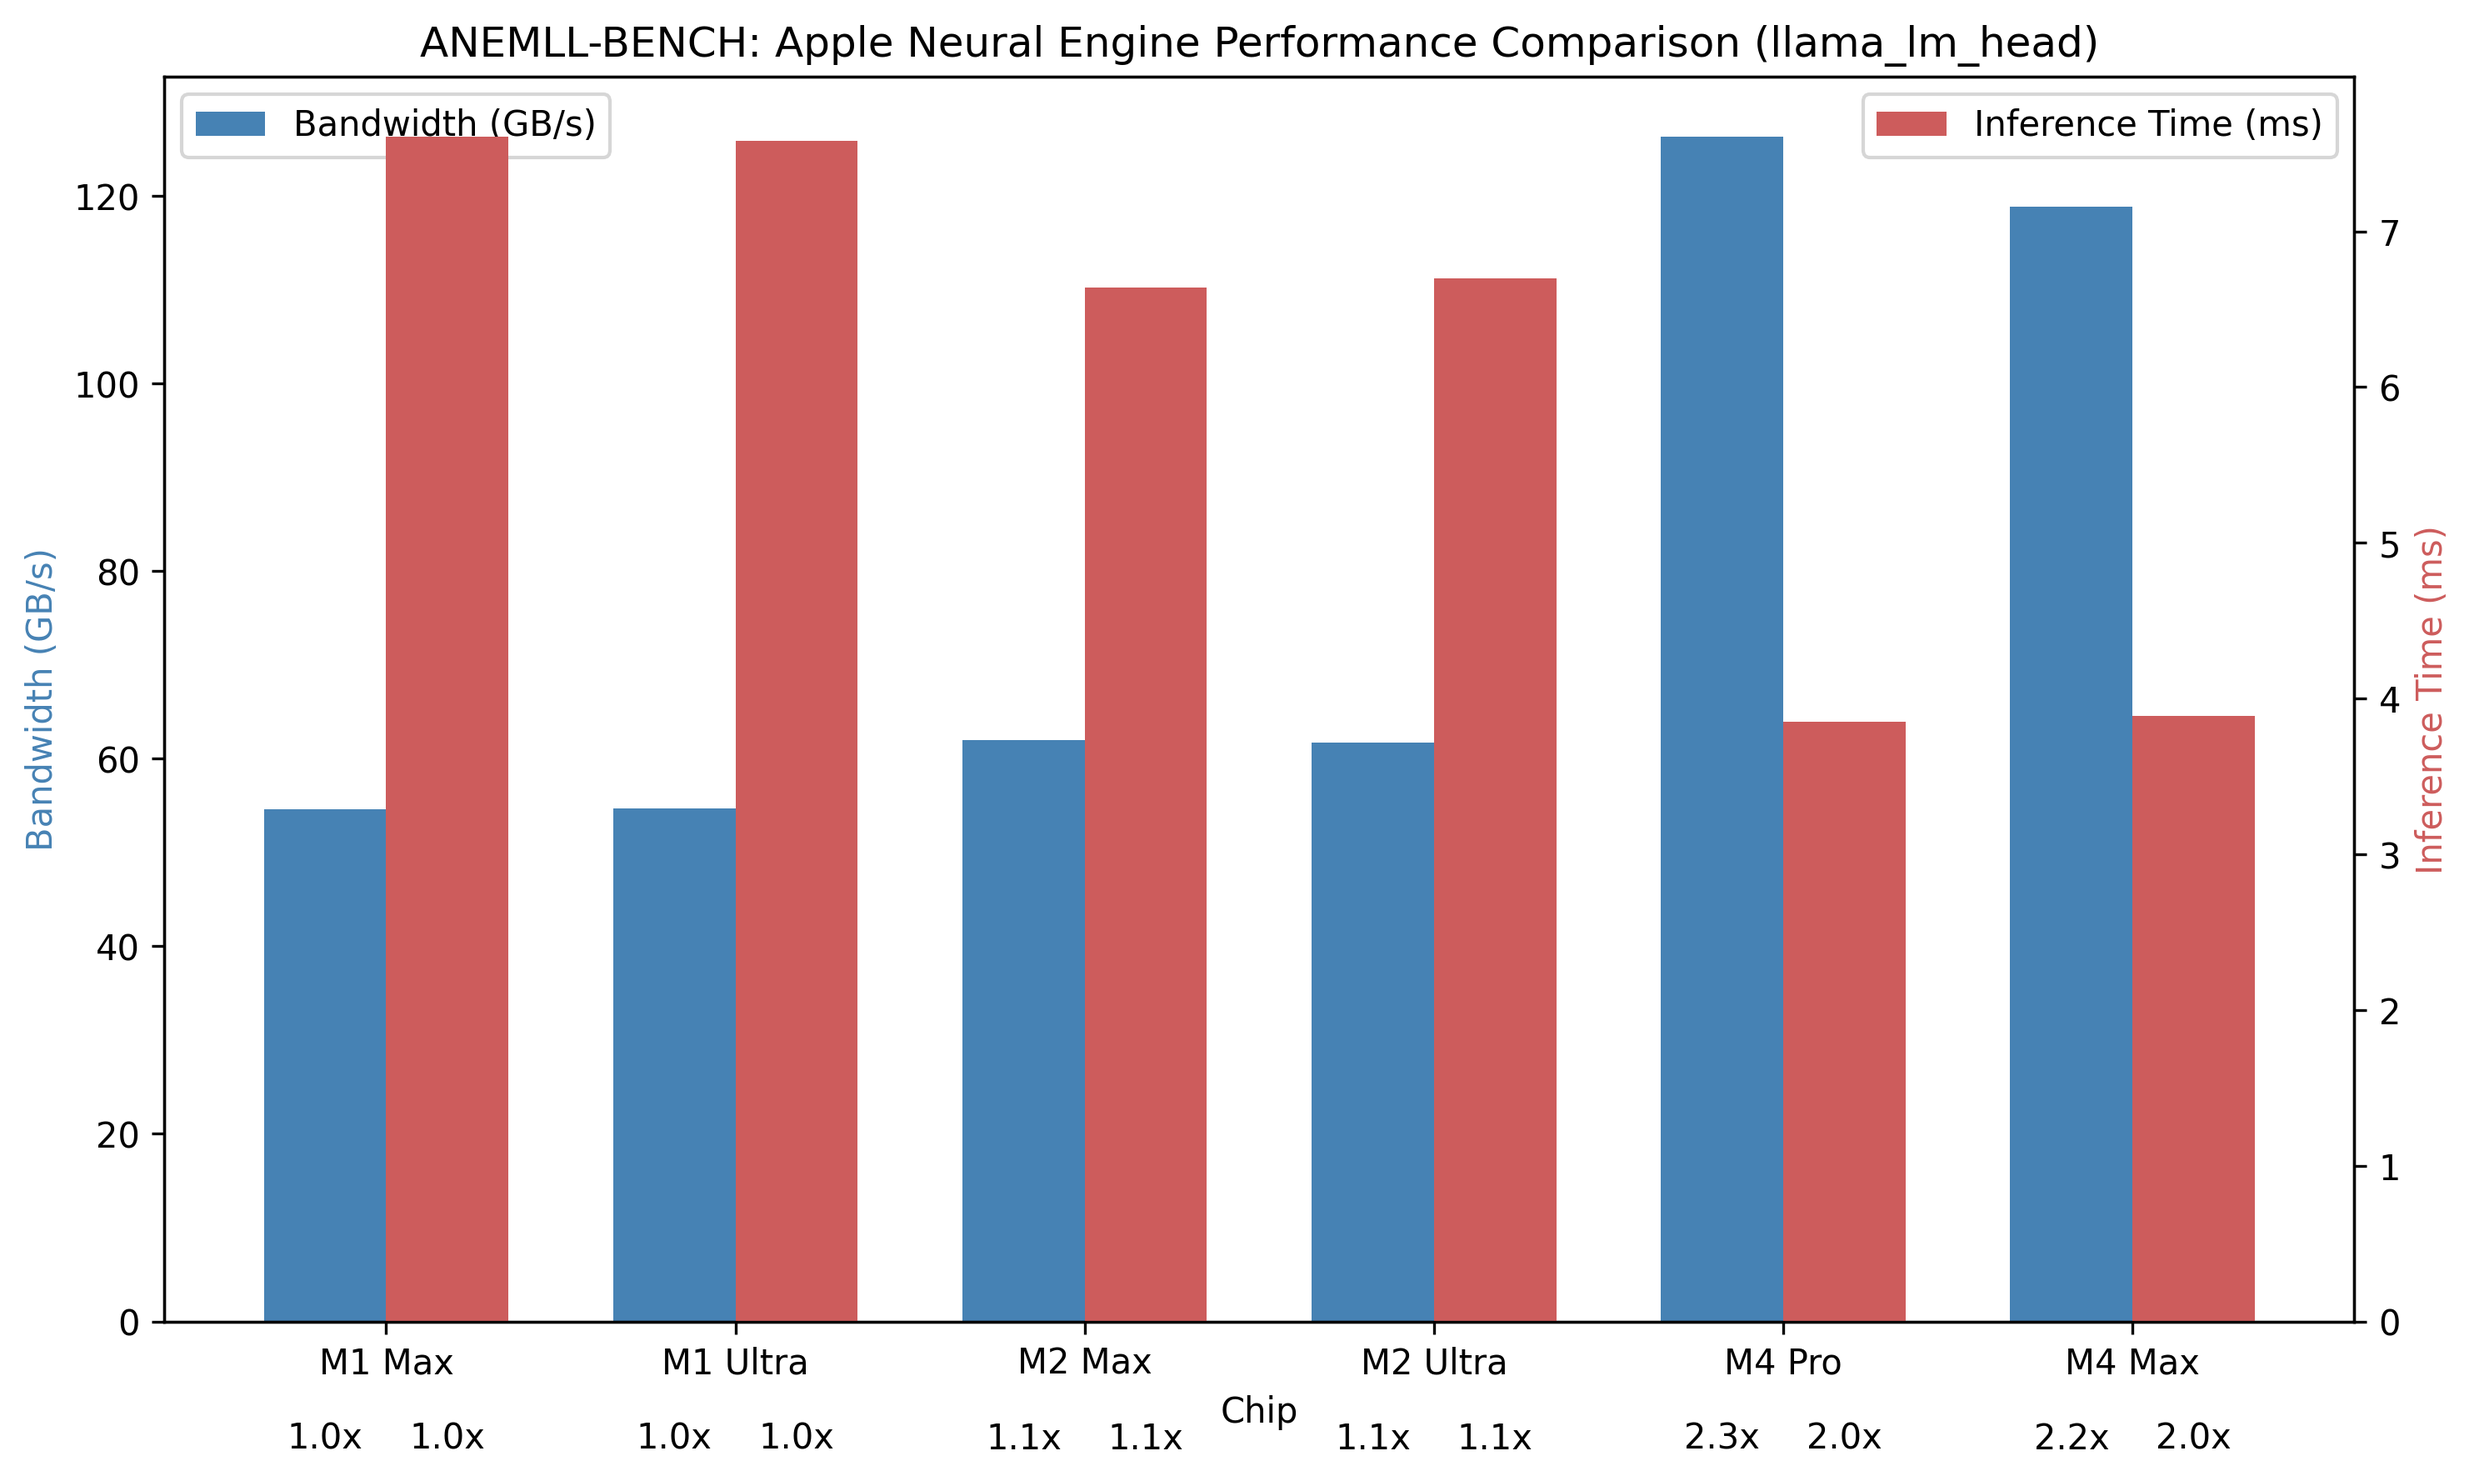
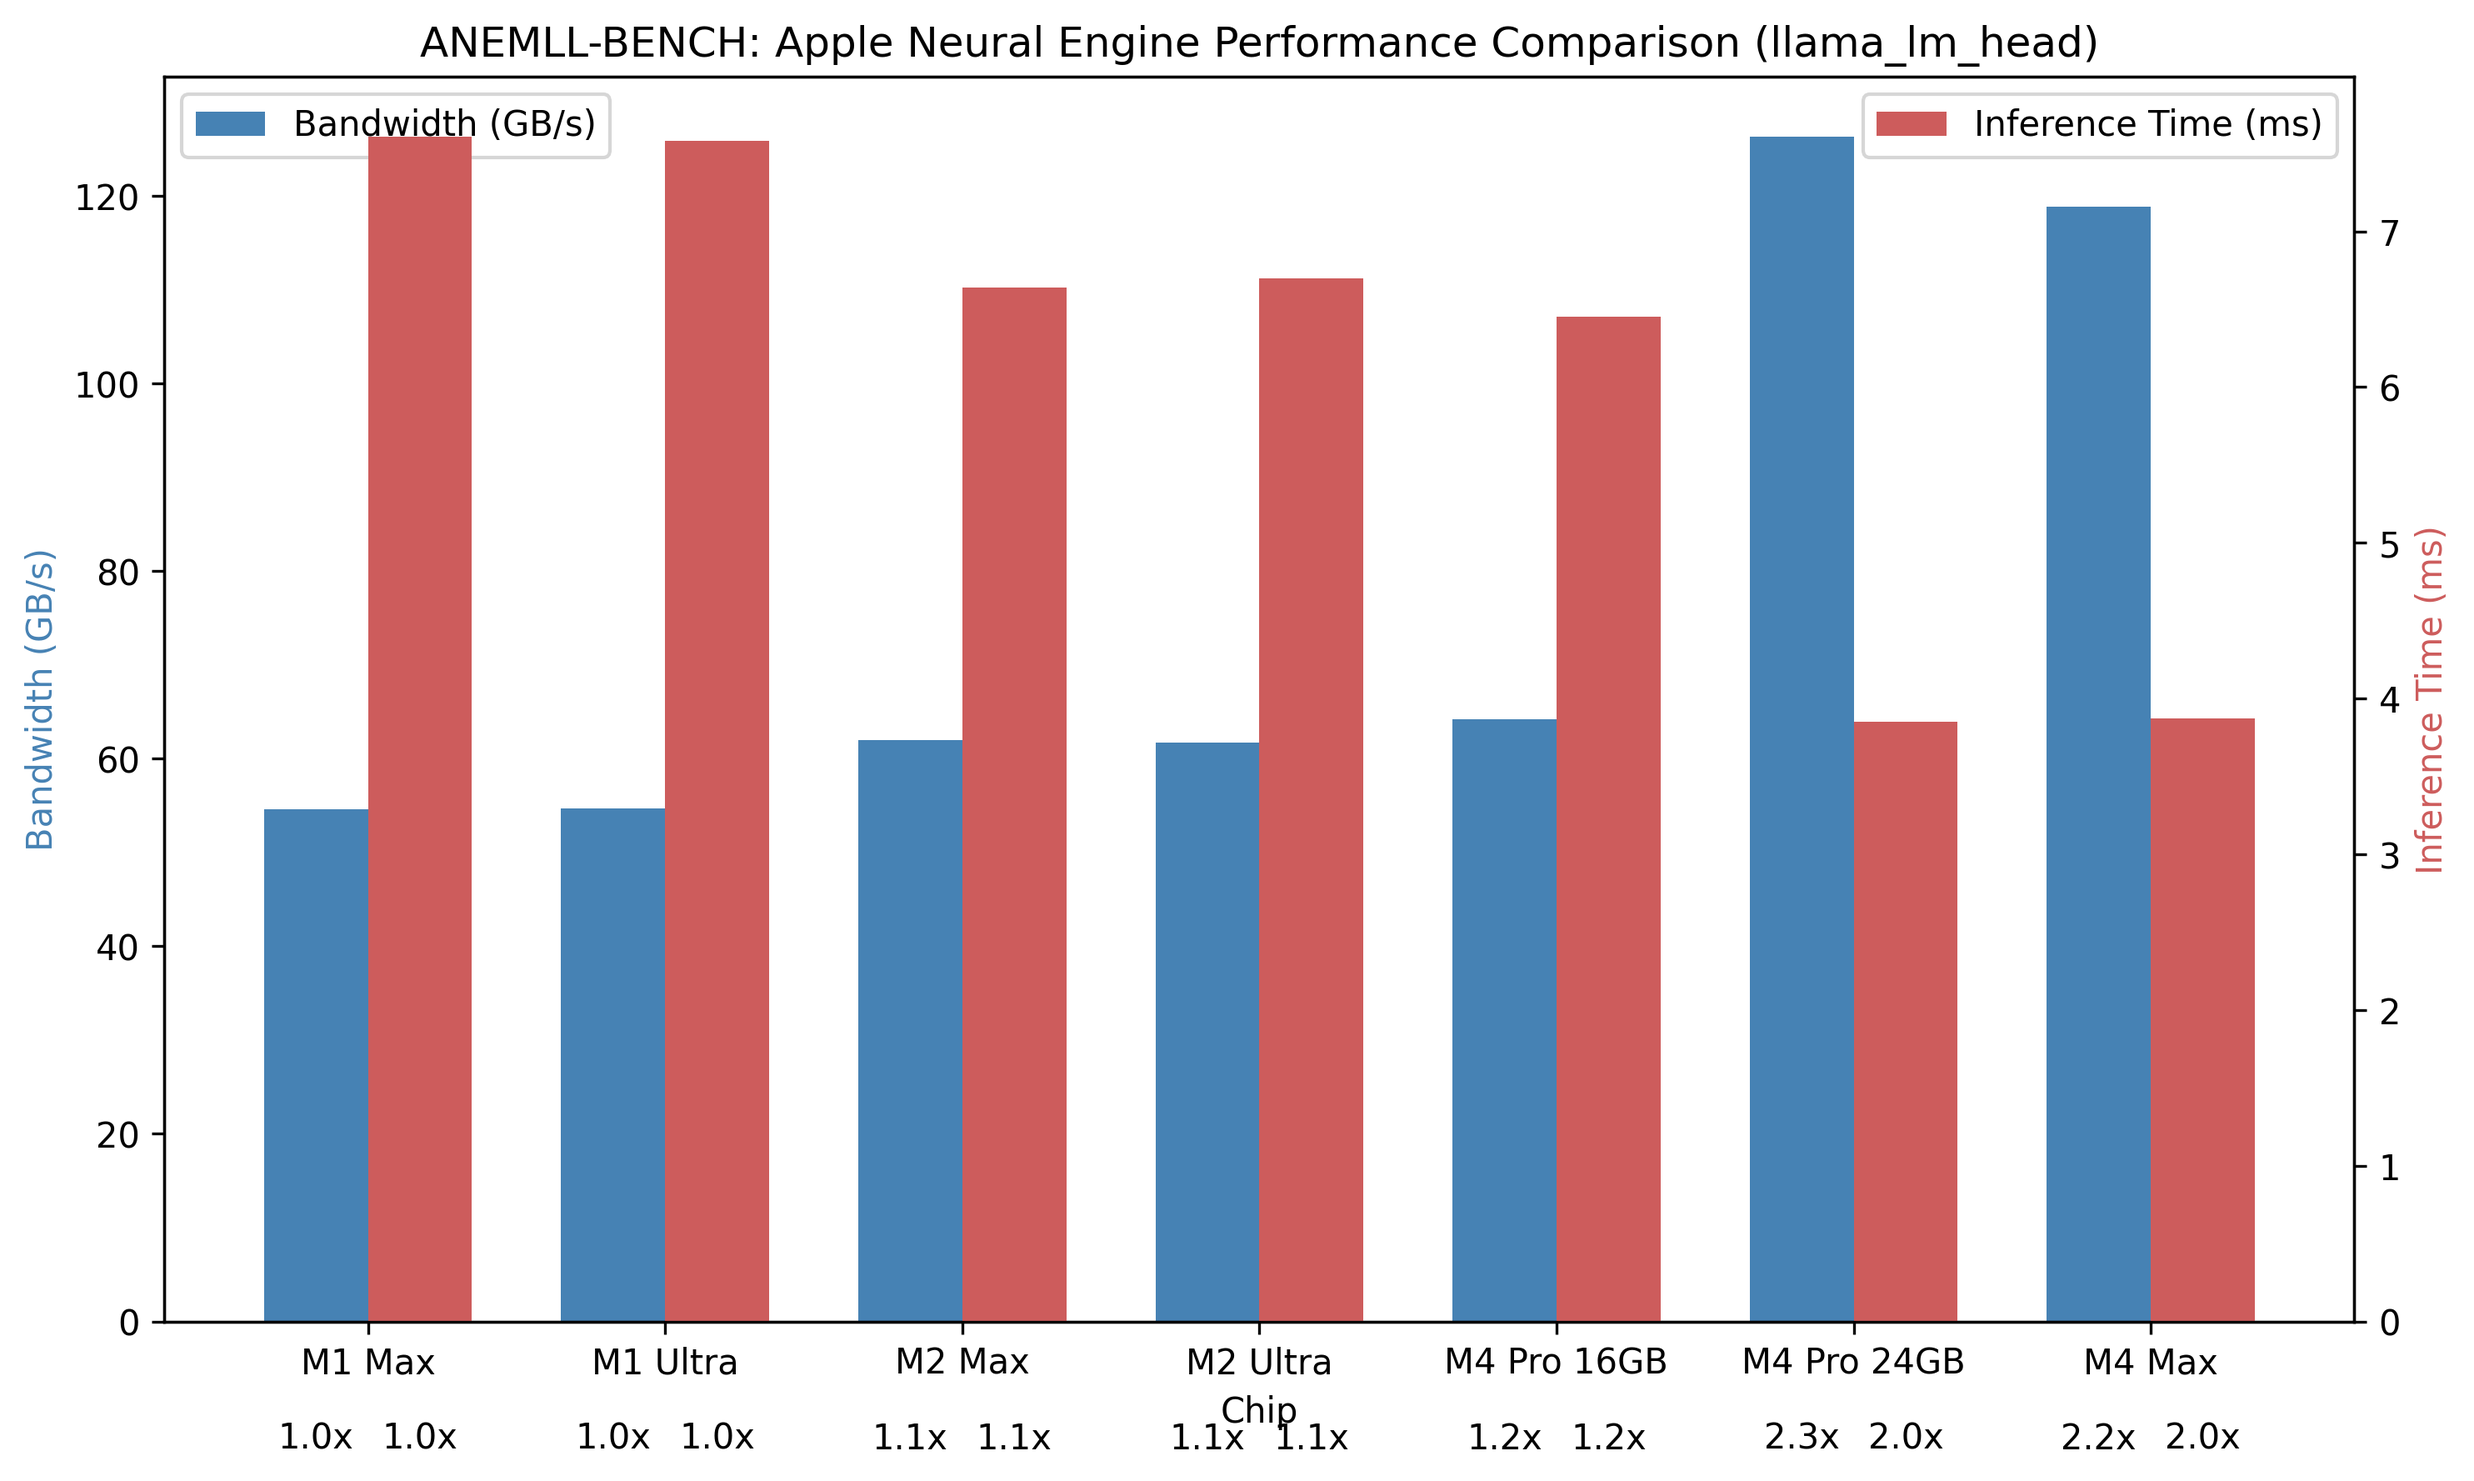
Updated for base M4 Pro 16GB model

diff --git a/examples/generate_results_report.py b/examples/generate_results_report.py
@@ -44,11 +44,11 @@ def generate_visualizations(args):
     
     # Sample data from benchmark results
     # In a real implementation, this would come from parsing the benchmark results file
-    chips = ['M1 Max', 'M1 Ultra', 'M2 Max', 'M2 Ultra', 'M4 Pro', 'M4 Max']
-    bandwidth = [54.62, 54.72, 62.01, 61.68, 126.36, 118.86]  # GB/s (llama_lm_head)
-    inference = [7.61, 7.58, 6.64, 6.70, 3.85, 3.89]           # ms (llama_lm_head_lut6)
-    bandwidth_factor = ['1.0x', '1.0x', '1.1x', '1.1x', '2.3x', '2.2x']
-    inference_factor = ['1.0x', '1.0x', '1.1x', '1.1x', '2.0x', '2.0x']
+    chips = ['M1 Max', 'M1 Ultra', 'M2 Max', 'M2 Ultra', 'M4 Pro 16GB', 'M4 Pro', 'M4 Max']
+    bandwidth = [54.62, 54.72, 62.01, 61.68, 64.18, 126.36, 118.88]  # GB/s (llama_lm_head)
+    inference = [7.61, 7.58, 6.64, 6.70, 6.45, 3.85, 3.87]           # ms (llama_lm_head_lut6)
+    bandwidth_factor = ['1.0x', '1.0x', '1.1x', '1.1x', '1.2x', '2.3x', '2.2x']
+    inference_factor = ['1.0x', '1.0x', '1.1x', '1.1x', '1.2x', '2.0x', '2.0x']
 
     # Create benchmark data dictionary
     benchmark_data = {

diff --git a/examples/plot_chip_comparison.py b/examples/plot_chip_comparison.py
@@ -25,11 +25,11 @@ def main():
     args = parser.parse_args()
 
     # Sample data from llama_lm_head model benchmarks
-    chips = ['M1 Max', 'M1 Ultra', 'M2 Max', 'M2 Ultra', 'M4 Pro', 'M4 Max']
-    bandwidth = [54.62, 54.72, 62.01, 61.68, 126.36, 118.86]  # GB/s (llama_lm_head)
-    inference = [7.61, 7.58, 6.64, 6.70, 3.85, 3.89]           # ms (llama_lm_head_lut6)
-    bandwidth_factor = ['1.0x', '1.0x', '1.1x', '1.1x', '2.3x', '2.2x']
-    inference_factor = ['1.0x', '1.0x', '1.1x', '1.1x', '2.0x', '2.0x']
+    chips = ['M1 Max', 'M1 Ultra', 'M2 Max', 'M2 Ultra', 'M4 Pro 16GB', 'M4 Pro 24GB', 'M4 Max']
+    bandwidth = [54.62, 54.72, 62.01, 61.68, 64.18, 126.36, 118.88]  # GB/s (llama_lm_head)
+    inference = [7.61, 7.58, 6.64, 6.70, 6.45, 3.85, 3.87]           # ms (llama_lm_head_lut6)
+    bandwidth_factor = ['1.0x', '1.0x', '1.1x', '1.1x', '1.2x', '2.3x', '2.2x']
+    inference_factor = ['1.0x', '1.0x', '1.1x', '1.1x', '1.2x', '2.0x', '2.0x']
 
     # Option 1: Use plot_chip_comparison directly
     print("Demonstrating direct use of plot_chip_comparison function...\n")

diff --git a/Results.MD b/Results.MD
@@ -37,8 +37,9 @@ As shown in the visualization:
 | M1 Ultra | 54.72 | 7.58 | 1.0x | 1.0x |
 | M2 Max | 62.01 | 6.64 | 1.1x | 1.1x |
 | M2 Ultra | 61.68 | 6.70 | 1.1x | 1.1x |
-| M4 Pro | 126.36 | 3.85 | 2.3x | 2.0x |
-| M4 Max | 118.86 | 3.89 | 2.2x | 2.0x |
+| M4 Pro 16GB MBP  | 64.18 | 6.45 | 1.2x | 1.2x |
+| M4 Pro 24GB Mini| 126.36 | 3.85 | 2.3x | 2.0x |
+| M4 Max | 118.88 | 3.87 | 2.2x | 2.0x |
 
 ### Key Observations
 
@@ -46,14 +47,16 @@ As shown in the visualization:
    - The M1 Ultra shows minimal performance gains over M1 Max, suggesting limited Neural Engine scaling in first-generation Apple Silicon
    - Similar pattern with M2 Ultra vs M2 Max
    - M4 series demonstrates better scaling and significantly improved performance
+   - The base M4 Pro 16GB shows modest improvements (~1.2x) over M1 series, while higher-end M4 variants show much larger gains
 
 2. **Memory Bandwidth Efficiency**:
-   - M4 series shows a ~2.3x improvement in memory bandwidth utilization
-   - This indicates substantial architectural improvements in the Neural Engine
+   - High-end M4 series shows a ~2.3x improvement in memory bandwidth utilization
+   - Entry-level M4 Pro 16GB shows ~1.2x improvement, suggesting memory configuration or thermal constraints may be factors
 
 3. **Inference Time Improvements**:
-   - M4 chips process the same model in approximately half the time compared to M1 chips
-   - This translates directly to improved user experience for AI applications
+   - High-end M4 chips process the same model in approximately half the time compared to M1 chips
+   - Entry-level M4 shows more modest gains, but still outperforms M1 and M2 series
+   - This suggests a significant architectural improvement in the Neural Engine for M4 series
 
 ## Running Your Own Benchmarks
 
